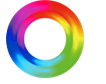
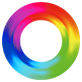
모니터스펙: fix stand/ring assets, bigger scale, shadow, auto bezel detect
- The QHD element is itself the monitor: the box is the screen and only a
  stand+base (67x23, cropped from the sheet) hangs below it — remove the
  extra vector monitor glyph that looked wrong.
- Re-crop rainbow-ring by color saturation (82x82) removing the invisible
  white bar that appeared next to the O.
- Scale badges up (k=u/520) to match the tfg40u12pw reference, and add a
  drop shadow to 240Hz/ms for the reference's punchier look.
- Add automatic screen detection from the monitor bezel: on image load
  (and via a 🎯 button) find the panel rect on the white background, walk
  past the dark bezel per side, and set the screen region (manual 범위
  지정 still available for fine-tuning).

diff --git a/plugins/monitor-spec.html b/plugins/monitor-spec.html
@@ -63,6 +63,7 @@ label.chk input{width:16px;height:16px}
   <div class="step"><b>화면 범위 지정 <small style="color:var(--muted);font-weight:500">스펙이 얹힐 화면 영역</small></b><span class="num">03 SCREEN</span></div>
   <div class="hint">아래 미리보기에서 <b>범위 지정</b>을 누르고 모니터 <b>화면(디스플레이) 영역</b>을 드래그하세요. 그 영역에 맞춰 스펙이 정확히 배치됩니다.</div>
   <div class="rowbtns">
+    <button class="sbtn" id="autoBtn">🎯 자동 인식 (테두리 기준)</button>
     <button class="sbtn" id="selBtn">🖱 범위 지정</button>
     <button class="sbtn" id="selReset">기본값</button>
     <label class="chk" style="margin:0"><input type="checkbox" id="showGuide" checked> 영역 가이드 표시</label>
@@ -101,7 +102,7 @@ const state = {
   inch:'27"', cm:'67.3cm', grade:'QHD', res:'2560X1440', hz:'240Hz', ms:'0.03ms', ratio:'16:9', panel:'평면',
   tech:'LED', tech2:'', techRing:true, warrantyOn:true,
   screen:{...RS}, showGuide:true, ciOn:true,
-  ci:'', ciW:0, ciH:0, warImg:'', warW:0, warH:0, ringImg:'', ringW:0, ringH:0
+  ci:'', ciW:0, ciH:0, warImg:'', warW:0, warH:0, ringImg:'', ringW:0, ringH:0, standImg:''
 };
 
 function measure(t,size,weight){ mctx.font=`${weight} ${size}px ${FONT}`; return mctx.measureText(String(t)).width; }
@@ -111,20 +112,18 @@ function rrect(x,y,w,h,r,o){ o=o||{}; const s=o.stroke?` stroke="${o.stroke}" st
   return `<rect x="${fmt(x)}" y="${fmt(y)}" width="${fmt(w)}" height="${fmt(h)}" rx="${fmt(r)}" fill="${o.fill||'none'}"${s}${f}/>`; }
 function IMG(href,x,y,w,h,par){ return `<image href="${href}" x="${fmt(x)}" y="${fmt(y)}" width="${fmt(w)}" height="${fmt(h)}" preserveAspectRatio="${par||'xMidYMid meet'}"/>`; }
 function splitNum(v){ const m=String(v||'').match(/^\s*([\d.,]+)\s*(.*)$/); return m?{n:m[1],u:m[2]}:{n:String(v||''),u:''}; }
-// 작은 모니터 아이콘(글리프) — 시트 실측 비율(109×47)
-function monitorIcon(cx,topY,w,h,col,sw){
-  const scrH=h*0.66;
-  return `<g fill="none" stroke="${col}" stroke-width="${fmt(sw)}">`+
-    `<rect x="${fmt(cx-w/2)}" y="${fmt(topY)}" width="${fmt(w)}" height="${fmt(scrH)}" rx="${fmt(w*0.03)}"/>`+
-    `<line x1="${fmt(cx)}" y1="${fmt(topY+scrH)}" x2="${fmt(cx)}" y2="${fmt(topY+h*0.85)}"/>`+
-    `<line x1="${fmt(cx-w*0.17)}" y1="${fmt(topY+h*0.93)}" x2="${fmt(cx+w*0.17)}" y2="${fmt(topY+h*0.93)}"/></g>`;
+// QHD 박스 아래 스탠드+받침 (박스 자체가 모니터 화면이 되는 디자인) — 시트 원본 PNG 사용
+function standIcon(cx,topY,k){
+  if(state.standImg) return IMG(state.standImg, cx-33.5*k, topY, 67*k, 23*k, 'xMidYMid meet');
+  return `<g fill="#fff"><rect x="${fmt(cx-13.5*k)}" y="${fmt(topY)}" width="${fmt(27*k)}" height="${fmt(14*k)}"/>`+
+    `<rect x="${fmt(cx-32.5*k)}" y="${fmt(topY+16*k)}" width="${fmt(65*k)}" height="${fmt(6*k)}" rx="${fmt(3*k)}"/></g>`;
 }
 
 /* ---------- 스펙 뱃지 — 시트(제목없음) 실측값 기반, 하단 밑단 정렬 ----------
    시트 실측(px): QHD요소 241×179(박스236×103·선4·QHD글자76·아이콘109×47·해상도42)
    16:9요소 175×110(16:9글자70 / 아래 흰스트립44에 검정 평면38) · 27"배지 219×144(흰박스200×76·인치57·cm42) */
 function badges(){
-  const S=state.screen, u=S.h, k=u/600, m=0.045*u; let out='';
+  const S=state.screen, u=S.h, k=u/520, m=0.045*u; let out='';
   const stroke=4*k;
   const bottomY = S.y + S.h - 0.085*u;   // 하단 요소 공통 밑단
   // 1) 27" 배지 — 좌상단 (검정 배지 + 흰 채움 박스 + 검정 인치 / 흰 cm)
@@ -153,7 +152,7 @@ function badges(){
     const ew=241*k, ex=S.x+m, etop=bottomY-178*k;
     out+=rrect(ex+2*k,etop,236*k,103*k,10*k,{fill:'none',stroke:'#fff',sw:stroke});
     out+=T(state.grade,ex+ew/2,etop+84*k,{size:76*k,weight:900,fill:'#fff',anchor:'middle'});
-    out+=monitorIcon(ex+ew/2,etop+106*k,109*k,47*k,'#fff',stroke);
+    out+=standIcon(ex+ew/2,etop+104*k,k);
     if(state.res) out+=T(state.res,ex+ew/2,bottomY,{size:42*k,weight:800,fill:'#fff',anchor:'middle'});
     leftEnd = ex+ew;
   }
@@ -183,11 +182,13 @@ function badges(){
     let t=totalW();
     if(t>availW){ const f=availW/t; big*=f; sm*=f; segs=build(); t=totalW(); }
     let x=availC-t/2;
+    out+=`<g filter="url(#hzShadow)">`;
     segs.forEach(g=>{
       if(g.gap!=null){ x+=g.gap; return; }
       out+=T(g.t,x,bottomY,{size:g.size,weight:900,fill:g.mint?MINT:'#fff',anchor:'start',italic:true,font:FONT_HZ});
       x+=measure(g.t,g.size,900);
     });
+    out+=`</g>`;
   }
   return out;
 }
@@ -217,7 +218,8 @@ function buildSVG(withGuide){
   }
   // 화면 하단 검정 그라데이션(스크림) — 스펙이 잘 보이도록
   const S=state.screen;
-  body.push(`<defs><linearGradient id="specScrim" x1="0" y1="0" x2="0" y2="1"><stop offset="0" stop-color="#101012" stop-opacity="0"/><stop offset="0.55" stop-color="#101012" stop-opacity="0.28"/><stop offset="1" stop-color="#101012" stop-opacity="0.72"/></linearGradient></defs>`);
+  body.push(`<defs><linearGradient id="specScrim" x1="0" y1="0" x2="0" y2="1"><stop offset="0" stop-color="#101012" stop-opacity="0"/><stop offset="0.55" stop-color="#101012" stop-opacity="0.28"/><stop offset="1" stop-color="#101012" stop-opacity="0.72"/></linearGradient>`+
+    `<filter id="hzShadow" x="-20%" y="-20%" width="140%" height="150%"><feDropShadow dx="2" dy="3" stdDeviation="2.2" flood-color="#000000" flood-opacity="0.45"/></filter></defs>`);
   body.push(`<rect x="${fmt(S.x)}" y="${fmt(S.y+S.h*0.46)}" width="${fmt(S.w)}" height="${fmt(S.h*0.54)}" fill="url(#specScrim)"/>`);
   body.push(badges());
   body.push(warrantySVG());
@@ -228,13 +230,61 @@ function buildSVG(withGuide){
 function render(){ $('#preview').innerHTML = buildSVG(true); }
 
 /* ---------- 이미지 ---------- */
-function readImage(file){ if(!file||!/^image\//.test(file.type)){setStatus('이미지 파일이 아니에요.');return;} const r=new FileReader(); r.onload=()=>{ const im=new Image(); im.onload=()=>{ state.img=r.result;state.imgW=im.naturalWidth;state.imgH=im.naturalHeight; const b=$('#imgBox');b.classList.add('has');b.style.backgroundImage=`url("${r.result}")`;$('#imgHint').style.display='none'; render(); }; im.src=r.result; }; r.readAsDataURL(file); }
+function readImage(file){ if(!file||!/^image\//.test(file.type)){setStatus('이미지 파일이 아니에요.');return;} const r=new FileReader(); r.onload=()=>{ const im=new Image(); im.onload=()=>{ state.img=r.result;state.imgW=im.naturalWidth;state.imgH=im.naturalHeight; const b=$('#imgBox');b.classList.add('has');b.style.backgroundImage=`url("${r.result}")`;$('#imgHint').style.display='none'; render(); autoDetectScreen(); }; im.src=r.result; }; r.readAsDataURL(file); }
 function loadAsset(path, onload){ fetch(path).then(r=>{if(!r.ok)throw 0;return r.blob();}).then(b=>{ const fr=new FileReader(); fr.onload=()=>{ const im=new Image(); im.onload=()=>onload(fr.result,im.naturalWidth,im.naturalHeight); im.src=fr.result; }; fr.readAsDataURL(b); }).catch(()=>{}); }
+
+/* ---------- 모니터 테두리 자동 인식 ---------- */
+// 흰 배경 제품컷에서 모니터 패널(베젤 포함) 사각형을 찾고, 베젤 두께만큼 안쪽으로 들어가 화면 영역을 잡는다
+function autoDetectScreen(){
+  if(!state.img) return;
+  const im=new Image();
+  im.onload=()=>{
+    try{
+      const N=250, cv=document.createElement('canvas'); cv.width=N; cv.height=N;
+      const cx=cv.getContext('2d',{willReadFrequently:true});
+      cx.fillStyle='#fff'; cx.fillRect(0,0,N,N);
+      const s=Math.min(1000/im.naturalWidth,1000/im.naturalHeight);
+      const dw=im.naturalWidth*s/1000*N, dh=im.naturalHeight*s/1000*N;
+      cx.drawImage(im,(N-dw)/2,(N-dh)/2,dw,dh);
+      const d=cx.getImageData(0,0,N,N).data;
+      const isBg=i=> d[i]>235&&d[i+1]>235&&d[i+2]>235;
+      // 행별 비배경 폭 → 가장 넓은 연속 구간이 패널(스탠드는 좁음)
+      const rows=[];
+      for(let y=0;y<N;y++){ let x0=-1,x1=-1; for(let x=0;x<N;x++){ const i=(y*N+x)*4; if(!isBg(i)){ if(x0<0)x0=x; x1=x; } } rows.push({x0,x1,w:x0<0?0:x1-x0+1}); }
+      const maxW=Math.max(...rows.map(r=>r.w));
+      if(maxW<N*0.3){ setStatus('모니터를 인식하지 못했어요. 범위 지정으로 직접 잡아주세요.'); return; }
+      let top=0; while(top<N&&rows[top].w<maxW*0.8) top++;
+      let bot=top; while(bot+1<N&&rows[bot+1].w>=maxW*0.72) bot++;
+      if(bot-top<N*0.08){ setStatus('모니터를 인식하지 못했어요. 범위 지정으로 직접 잡아주세요.'); return; }
+      const seg=rows.slice(top,bot+1);
+      const left=Math.min(...seg.map(r=>r.x0)), right=Math.max(...seg.map(r=>r.x1));
+      // 베젤 인셋: 중앙 행/열에서 어두운 픽셀(베젤)을 통과
+      const midY=(top+bot)>>1, midX=(left+right)>>1;
+      const dark=(x,y)=>{ const i=(y*N+x)*4; return d[i]+d[i+1]+d[i+2]<180; };
+      let l=left; while(l<midX&&dark(l,midY)) l++;
+      let r=right; while(r>midX&&dark(r,midY)) r--;
+      let t=top; while(t<midY&&dark(midX,t)) t++;
+      let b=bot; while(b>midY&&dark(midX,b)) b--;
+      // 화면 내용이 어두워 과도하게 들어간 경우 제한
+      const capX=(right-left)*0.06, capY=(bot-top)*0.09;
+      if(l-left>capX) l=left+Math.round(capX*0.4);
+      if(right-r>capX) r=right-Math.round(capX*0.4);
+      if(t-top>capY) t=top+Math.round(capY*0.5);
+      if(bot-b>capY) b=bot-Math.round(capY*0.5);
+      const K=1000/N;
+      state.screen={x:l*K,y:t*K,w:(r-l)*K,h:(b-t)*K};
+      render();
+      setStatus('모니터 테두리를 인식해 화면 영역을 자동으로 잡았어요. (미세조정: 범위 지정)');
+    }catch(e){ /* 실패 시 조용히 기본값 유지 */ }
+  };
+  im.src=state.img;
+}
 
 /* ---------- 화면 범위 드래그 ---------- */
 let selMode=false, dragStart=null;
 function toSvgXY(cx,cy){ const r=$('#selCatcher').getBoundingClientRect(); const k=1000/r.width; return {x:Math.max(0,Math.min(1000,(cx-r.left)*k)),y:Math.max(0,Math.min(1000,(cy-r.top)*k))}; }
 function setSelMode(on){ selMode=on; $('#selCatcher').classList.toggle('on',on); $('#selBtn').classList.toggle('on',on); if(!on)$('#selRect').style.display='none'; setStatus(on?'모니터 화면 영역을 드래그하세요.':''); }
+$('#autoBtn').onclick=()=>{ if(!state.img){ setStatus('먼저 모니터 이미지를 넣어주세요.'); return; } autoDetectScreen(); };
 $('#selBtn').onclick=()=>setSelMode(!selMode);
 $('#selReset').onclick=()=>{ state.screen={...RS}; render(); setStatus('화면 영역을 기본값으로 되돌렸어요.'); };
 $('#selCatcher').addEventListener('mousedown',e=>{ if(!selMode)return; e.preventDefault(); const sh=$('#pvShell').getBoundingClientRect(); dragStart={cx:e.clientX,cy:e.clientY}; const sr=$('#selRect'); sr.style.display='block'; sr.style.left=(e.clientX-sh.left)+'px'; sr.style.top=(e.clientY-sh.top)+'px'; sr.style.width='0px'; sr.style.height='0px'; });
@@ -259,6 +309,7 @@ window.addEventListener('load',()=>{ if(window.ImageDrop) ImageDrop.wire('imgInp
 
 // 레포의 에셋(무지개 링·골드 보증뱃지·CI)을 data URI로 임베드
 loadAsset('assets/rainbow-ring.png',(d,w,h)=>{ state.ringImg=d;state.ringW=w;state.ringH=h; render(); });
+loadAsset('assets/qhd-stand.png',(d)=>{ state.standImg=d; render(); });
 loadAsset('assets/warranty-3y.png',(d,w,h)=>{ state.warImg=d;state.warW=w;state.warH=h; render(); });
 loadAsset('assets/hansung-ci.jpg',(d,w,h)=>{ if(state.ci)return; state.ci=d;state.ciW=w;state.ciH=h; render(); });
 
